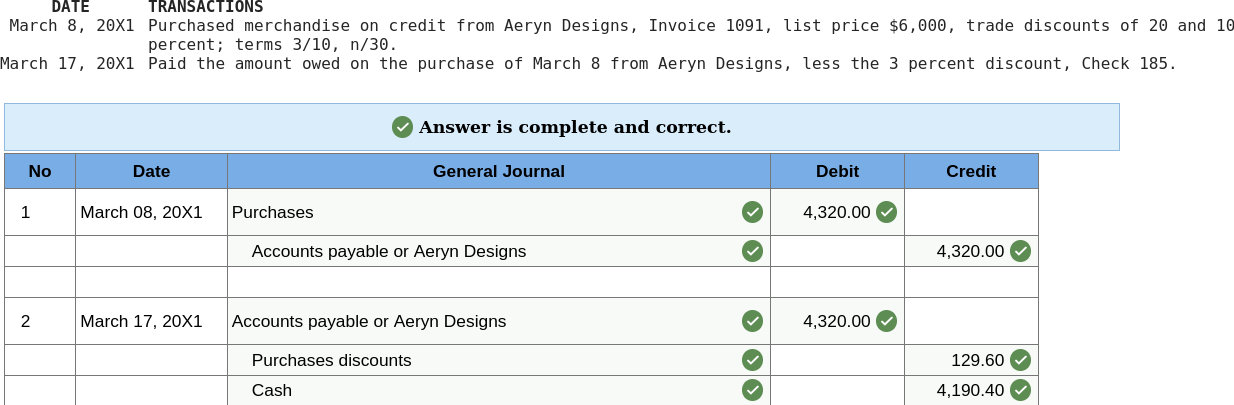
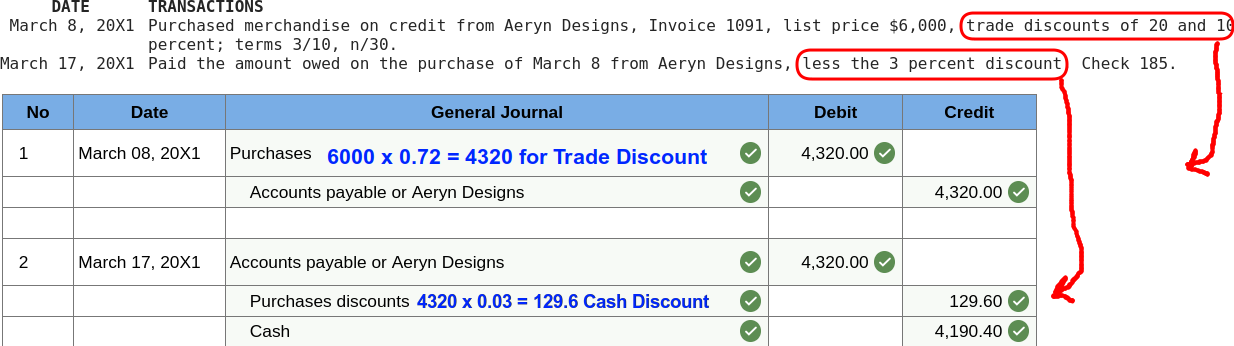
purchase pic and post mod

diff --git a/_pages/chap08.purchases.md b/_pages/chap08.purchases.md
@@ -61,7 +61,7 @@ Purchase~ Returns~ \&~ Allowances \\
 
 ![](/assets/mc-graw-accounting-course/chap8.purchases/206.acct.payable.w.discount.cash.png)
 
-### 4. Trade Discounts
+### 4. Trade & Early Cash Discounts
 
 ![](/assets/mc-graw-accounting-course/chap8.purchases/8.using.trade.discounts.png)
 
